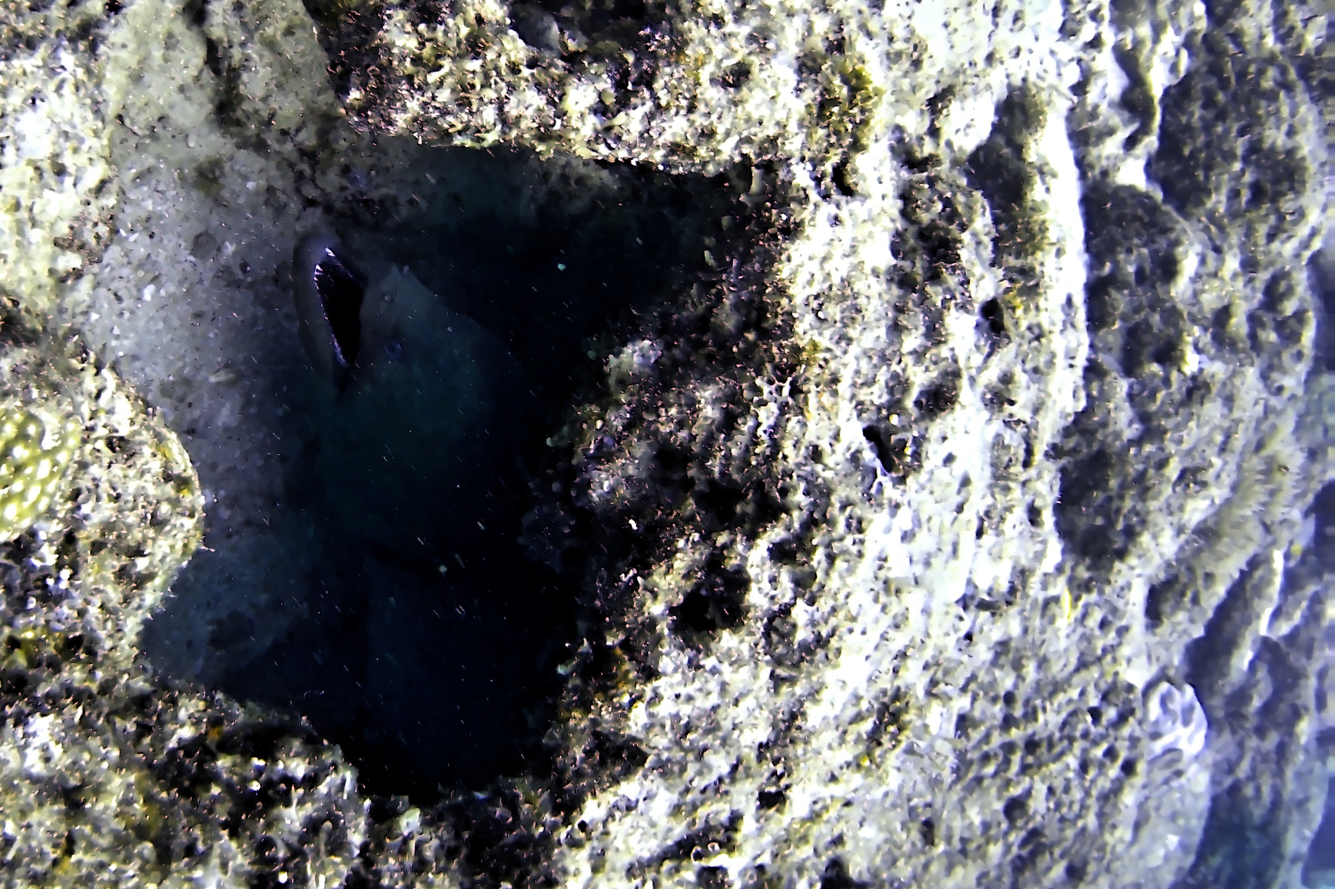
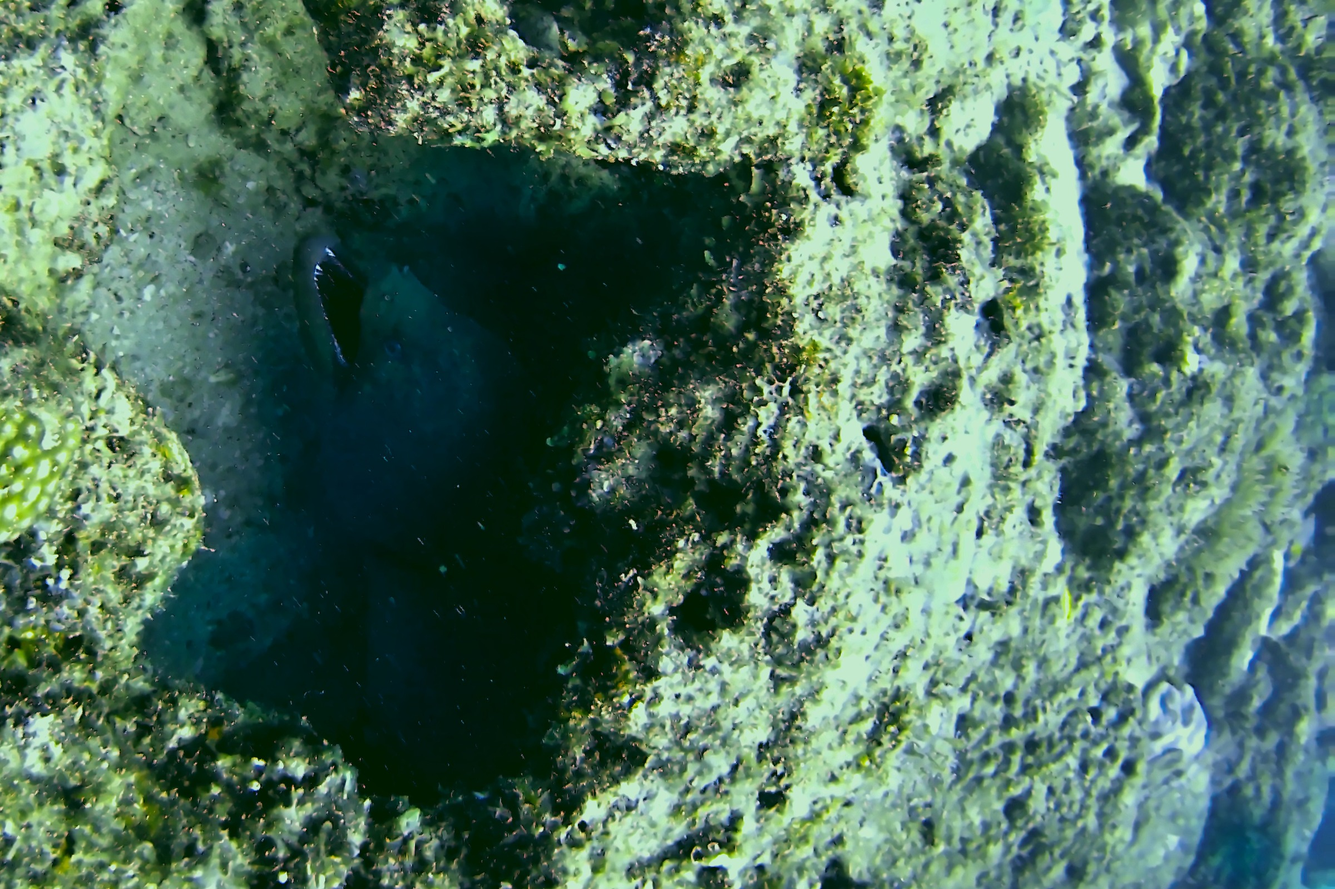
Lens: underwater photos graded to match JP's Instagram clownfish edit; 19 Instagram posts and stories added; clownfish = JP's own edit

diff --git a/src/lib/lens.ts b/src/lib/lens.ts
@@ -120,7 +120,7 @@ export const photos: LensPhoto[] = [
   { slug: "trees-in-the-tide", title: "Trees in the tide", place: "Andaman Islands", date: "Apr 2022", cat: "seascape", w: 2400, h: 1350, selected: 15 },
   { slug: "forest-mirror", title: "Forest mirror", place: "Andaman Islands", date: "Apr 2022", cat: "landscape", w: 2400, h: 1350 },
   { slug: "valparai-dusk", title: "Valley at dusk", place: "Valparai", date: "Nov 2023", cat: "landscape", w: 2400, h: 1600 },
-  { slug: "clownfish", title: "Ocellaris clownfish", place: "Andaman Islands", date: "2023", cat: "underwater", w: 1920, h: 2400, species: "Amphiprion ocellaris", selected: 2 },
+  { slug: "clownfish", title: "Ocellaris clownfish", place: "Andaman Islands", date: "2023", cat: "underwater", w: 1440, h: 1800, species: "Amphiprion ocellaris", selected: 2 },
   { slug: "wake", title: "Wake", place: "Andaman Sea", date: "Apr 2022", cat: "seascape", w: 1459, h: 1824 },
   { slug: "palm-road", title: "Palm road", place: "Goa", date: "Oct 2021", cat: "landscape", w: 1504, h: 1880 },
   { slug: "toward-the-sun", title: "Toward the sun", place: "Gokarna", date: "Jan 2022", cat: "seascape", w: 2400, h: 1600 },
@@ -153,6 +153,26 @@ export const photos: LensPhoto[] = [
   { slug: "giant-moray", title: "Giant moray", place: "Andaman Islands", date: "", cat: "underwater", w: 2400, h: 1599, species: "Gymnothorax javanicus" },
   { slug: "moray-crevice", title: "Moray eel", place: "Andaman Islands", date: "", cat: "underwater", w: 1273, h: 1590, species: "Muraenidae" },
   { slug: "clownfish-colony", title: "Ocellaris clownfish", place: "Andaman Islands", date: "", cat: "underwater", w: 2400, h: 1600, species: "Amphiprion ocellaris" },
+  // from Instagram (JP's own edits)
+  { slug: "pink-driftwood", title: "Driftwood at dusk", place: "Andaman Islands", date: "Jan 2024", cat: "seascape", w: 1078, h: 565, selected: 9.5 },
+  { slug: "valley-dusk", title: "Valley at last light", place: "India", date: "Jan 2024", cat: "landscape", w: 1078, h: 565 },
+  { slug: "mountain-wildflowers", title: "Wildflowers under the range", place: "India", date: "May 2025", cat: "landscape", w: 1440, h: 1800 },
+  { slug: "ocean-pool", title: "Ocean pool", place: "Sydney", date: "May 2025", cat: "seascape", w: 1440, h: 1800, selected: 7.5 },
+  { slug: "beached-boat", title: "Low tide, last light", place: "Andaman Islands", date: "Mar 2023", cat: "seascape", w: 1440, h: 1080 },
+  { slug: "moon-boat", title: "Moonlight on the bay", place: "Andaman Islands", date: "Apr 2023", cat: "seascape", w: 1440, h: 754 },
+  { slug: "rainbow-surf", title: "Rainbow over the break", place: "Sydney", date: "May 2025", cat: "seascape", w: 1440, h: 1800, selected: 3.5 },
+  { slug: "arch-window", title: "Window in the rock", place: "Andaman Islands", date: "Mar 2024", cat: "adventure", w: 1080, h: 1350, selected: 5.5 },
+  { slug: "harbour-fireworks", title: "New Year over the harbour", place: "Sydney", date: "Jan 2025", cat: "landscape", w: 1440, h: 640 },
+  { slug: "moonrise-cliff", title: "Moonrise over the headland", place: "Sydney", date: "2026", cat: "seascape", w: 1440, h: 1800 },
+  { slug: "eucalypt-sunset", title: "Sun down behind the gums", place: "Sydney", date: "2026", cat: "landscape", w: 2400, h: 1350 },
+  { slug: "blue-break", title: "Blue break", place: "Sydney", date: "2026", cat: "seascape", w: 2400, h: 1350 },
+  { slug: "rockpool-light", title: "Rock pools, low sun", place: "Sydney", date: "2026", cat: "seascape", w: 1440, h: 1800, selected: 11.5 },
+  { slug: "sandstone-cliffs", title: "Sandstone cliffs, squall", place: "Sydney", date: "2026", cat: "seascape", w: 2400, h: 1350 },
+  { slug: "cliff-gold", title: "Cliffs under a gold sky", place: "Sydney", date: "2026", cat: "seascape", w: 2334, h: 1311, selected: 12.5 },
+  { slug: "boardwalk-dusk", title: "Boardwalk at dusk", place: "Sydney", date: "2026", cat: "landscape", w: 2361, h: 1325, selected: 10.5 },
+  { slug: "sunburst-pine", title: "Sunburst and pine", place: "Sydney", date: "2026", cat: "landscape", w: 1440, h: 1800 },
+  { slug: "harbour-afterglow", title: "Harbour afterglow", place: "Sydney", date: "2026", cat: "landscape", w: 2400, h: 1350, selected: 8.5 },
+  { slug: "pink-clouds", title: "Pink clouds", place: "Sydney", date: "2026", cat: "landscape", w: 1440, h: 1800 },
 ];
 
 export const selectedPhotos = photos
